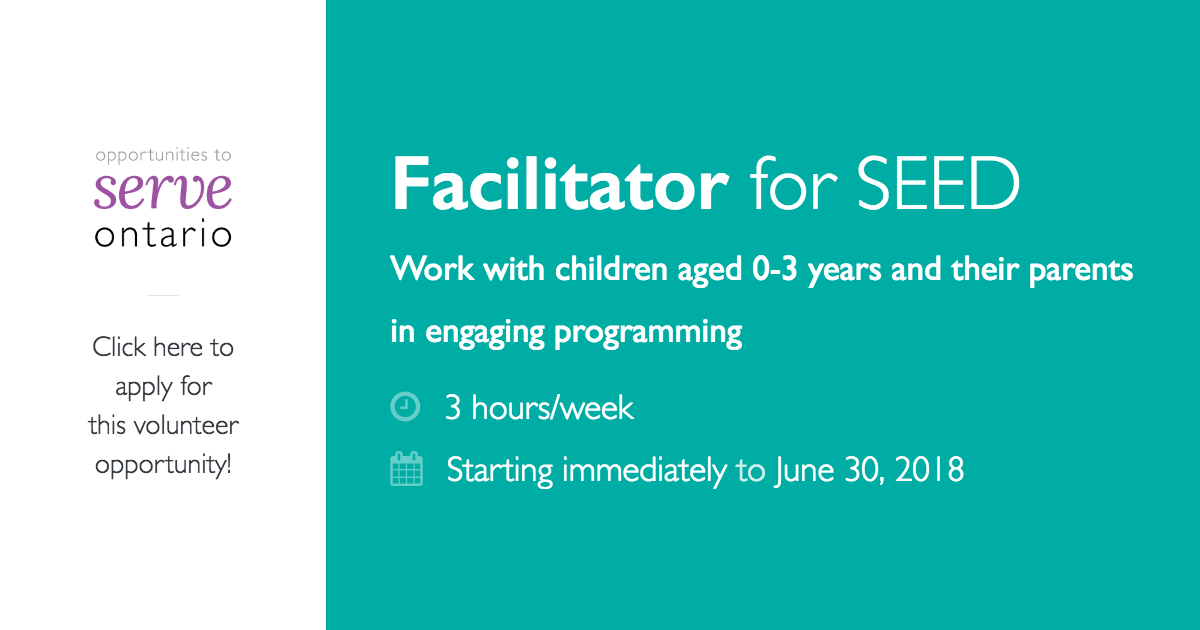
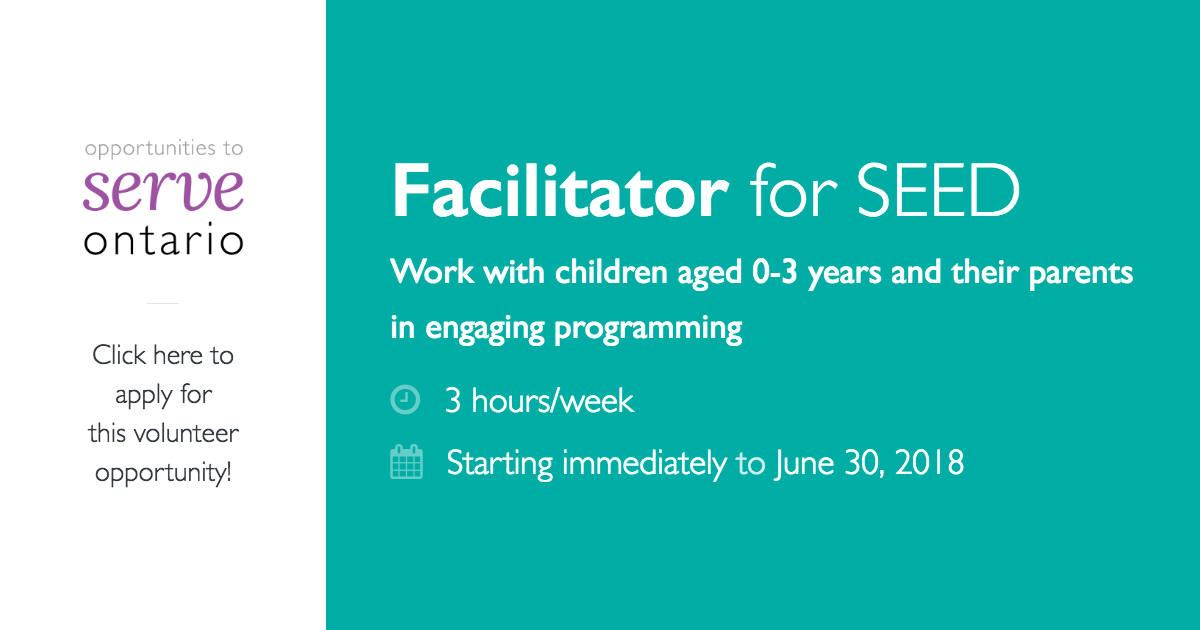
Improve layout for social image

diff --git a/layouts/__social/single.html b/layouts/__social/single.html
@@ -7,7 +7,7 @@
 {{ define "main_wrapper" }}
 	<main class="d-flex flex-row font-family-sans-serif">
 		<div class="bg-white d-flex flex-column align-items-center justify-content-center p-5 text-center">
-			<img class="mb-3" height="100" src="/images/logo.png"/>
+			<img class="mb-3" height="116" src="/images/logo.png"/>
 			<!-- <hr class="my-4">
 			<h5 class="mb-0 about">Find volunteer opportunities<br>within Jamati programs</h5> -->
 			<hr class="my-4">

diff --git a/styles/social.scss b/styles/social.scss
@@ -56,6 +56,7 @@ hr {
 
 	.description {
 		font-size: $h3-font-size;
+		line-height: $line-height-sm;
 		color: #FFF;
 	}
 
